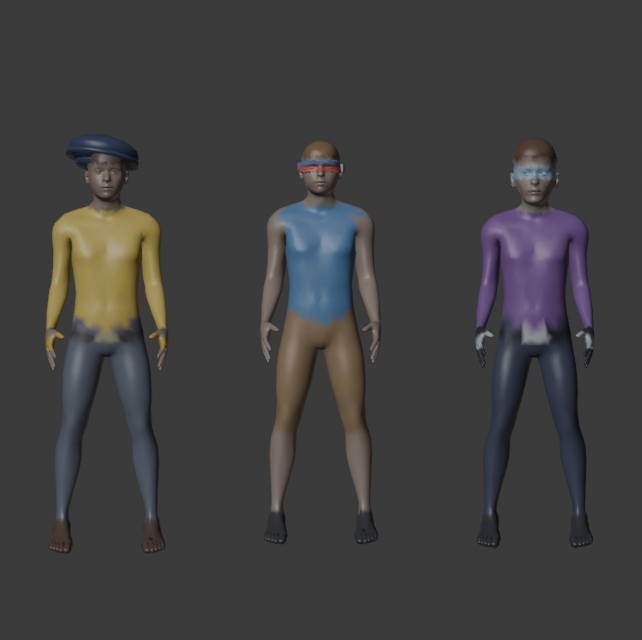
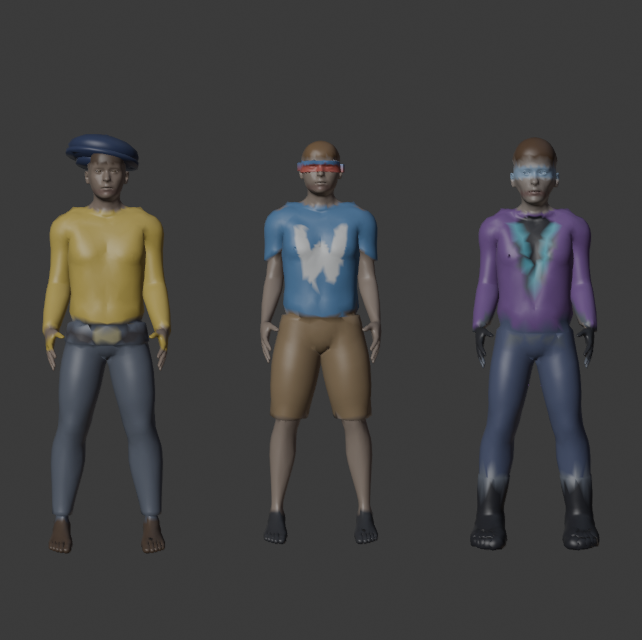
bead godot-test1-5u3.10: the clothing grid, the rest row, the PROVENANCE rows

diff --git a/assets/models/characters/PROVENANCE.md b/assets/models/characters/PROVENANCE.md
@@ -33,9 +33,9 @@ Source `.blend` files accompanying authored `.glb` models **are committed to git
 
 | File | Tool + Version | Source | Licence | Date | .blend |
 |---|---|---|---|---|---|
-| `teibi_parts/teibi_skinned.glb` | Blender 5.2.1 LTS, MPFB 2.0.17 | `scripts/build_hero.py teibi`, MakeHuman basemesh + targets + `rig.game_engine.json` + `weights.game_engine.json` | CC0 | 2026-09-11, SPIKE godot-test1-5u3.1; rebuilt 2026-09-11 for bead godot-test1-z3e.14 (skin and lips through `SKIN_GRADE`, geometry byte-identical); **shipped** 2026-09-11 by bead godot-test1-5u3.3, rebuilt again with the 30 finger bones collapsed into `hand_l`/`hand_r` (owner ruling — 23 bones) and a low shoe shell over the bare MakeHuman feet; rebuilt 2026-09-12 by bead godot-test1-5u3.4 when the lane was generalised (the face is now its own decimate target at 4,400 triangles, and his landmarks are read off the MORPHED mesh — 13,266 tris, 5,064 of them head) | `teibi_parts/teibi_skinned.blend` |
-| `windman_parts/windman_skinned.glb` | Blender 5.2.1 LTS, MPFB 2.0.17 | `scripts/build_hero.py --hero windman`, MakeHuman basemesh + targets + `rig.game_engine.json` + `weights.game_engine.json` | CC0 | 2026-09-12, bead godot-test1-5u3.4 built it unwired; **shipped** 2026-09-12 by bead godot-test1-5u3.5 — `windman_updated.tscn` instances this and nothing else, the ten generated parts and the authored head are retired, and the chest "W" is painted into its vertex colours (`paint_chest_glyph`). 12,649 tris (4,447 head), 23 bones, no texture | `windman_parts/windman_skinned.blend` |
-| `primm_parts/primm_skinned.glb` | Blender 5.2.1 LTS, MPFB 2.0.17 | `scripts/build_hero.py --hero primm`, MakeHuman basemesh + targets + `rig.game_engine.json` + `weights.game_engine.json` | CC0 | 2026-09-12, bead godot-test1-5u3.4 built it unwired; **shipped** 2026-09-12 by bead godot-test1-5u3.6 and rebuilt there with the lab coat painted on — the open V of black inner shirt outlined in glowing cyan, silver seams at the jacket hem, the rolled sleeve and the boot rim, the boot shaft up the calf, silver fingertips, and the trousers two stops lighter so the black shaft has something to be black against. 12,602 tris (4,400 head), 23 bones, no texture | `primm_parts/primm_skinned.blend` |
+| `teibi_parts/teibi_skinned.glb` | Blender 5.2.1 LTS, MPFB 2.0.17 | `scripts/build_hero.py teibi`, MakeHuman basemesh + targets + `rig.game_engine.json` + `weights.game_engine.json` | CC0 | 2026-09-11, SPIKE godot-test1-5u3.1; rebuilt 2026-09-11 for bead godot-test1-z3e.14 (skin and lips through `SKIN_GRADE`, geometry byte-identical); **shipped** 2026-09-11 by bead godot-test1-5u3.3, rebuilt again with the 30 finger bones collapsed into `hand_l`/`hand_r` (owner ruling — 23 bones) and a low shoe shell over the bare MakeHuman feet; rebuilt 2026-09-12 by bead godot-test1-5u3.4 when the lane was generalised (the face is now its own decimate target at 4,400 triangles, and his landmarks are read off the MORPHED mesh — 13,266 tris, 5,064 of them head); rebuilt 2026-09-12 by bead godot-test1-5u3.10, which turned his clothes into GEOMETRY — uniform trousers with a waistband ridge and a hem 2 cm above the shoe, the mustard polo with a hem below the belt line and a cuff at each wrist, every one of them the body's own surface pushed 1.0-2.4 cm proud over a cut hem ring (`dress_shells`). 13,996 tris (5,064 head), +5.5%, 23 bones, no texture | `teibi_parts/teibi_skinned.blend` |
+| `windman_parts/windman_skinned.glb` | Blender 5.2.1 LTS, MPFB 2.0.17 | `scripts/build_hero.py --hero windman`, MakeHuman basemesh + targets + `rig.game_engine.json` + `weights.game_engine.json` | CC0 | 2026-09-12, bead godot-test1-5u3.4 built it unwired; **shipped** 2026-09-12 by bead godot-test1-5u3.5 — `windman_updated.tscn` instances this and nothing else, the ten generated parts and the authored head are retired, and the chest "W" is painted into its vertex colours (`paint_chest_glyph`). 12,649 tris (4,447 head), 23 bones, no texture; rebuilt 2026-09-12 by bead godot-test1-5u3.10 — the blue T-shirt and the brown knee shorts are geometry now: a torso shell with a hem below the waist, a short cap sleeve to mid-upper-arm (canon: "sleeveless or ... short sleeves that go to mid-shoulder"), and baggy shorts hemmed 3 cm above the knee with bare calf below. 14,185 tris (4,447 head), +5.8%, 23 bones, no texture | `windman_parts/windman_skinned.blend` |
+| `primm_parts/primm_skinned.glb` | Blender 5.2.1 LTS, MPFB 2.0.17 | `scripts/build_hero.py --hero primm`, MakeHuman basemesh + targets + `rig.game_engine.json` + `weights.game_engine.json` | CC0 | 2026-09-12, bead godot-test1-5u3.4 built it unwired; **shipped** 2026-09-12 by bead godot-test1-5u3.6 and rebuilt there with the lab coat painted on — the open V of black inner shirt outlined in glowing cyan, silver seams at the jacket hem, the rolled sleeve and the boot rim, the boot shaft up the calf, silver fingertips, and the trousers two stops lighter so the black shaft has something to be black against. 12,602 tris (4,400 head), 23 bones, no texture; rebuilt 2026-09-12 by bead godot-test1-5u3.10 — the coat is a shell 1.8-2.8 cm proud CARVED at the open front (the black inner shirt is recessed and the silver lapel rides the step it leaves), fitted trousers tucked into a boot shaft that swallows them, and two COAT TAILS off the back hem: boxes weighted pelvis 0.6 / thigh 0.4 so they part around the stride rather than being walked through (owner: "like a tuxedo with tails"). 13,178 tris (4,400 head), +4.6%, 23 bones, no texture | `primm_parts/primm_skinned.blend` |
 
 THE SKINNED HEROES ARE ONE TABLE NOW. `scripts/build_hero.py`'s `HEROES` rows are
 windman, primm and teibi — face macros and targets imported from
